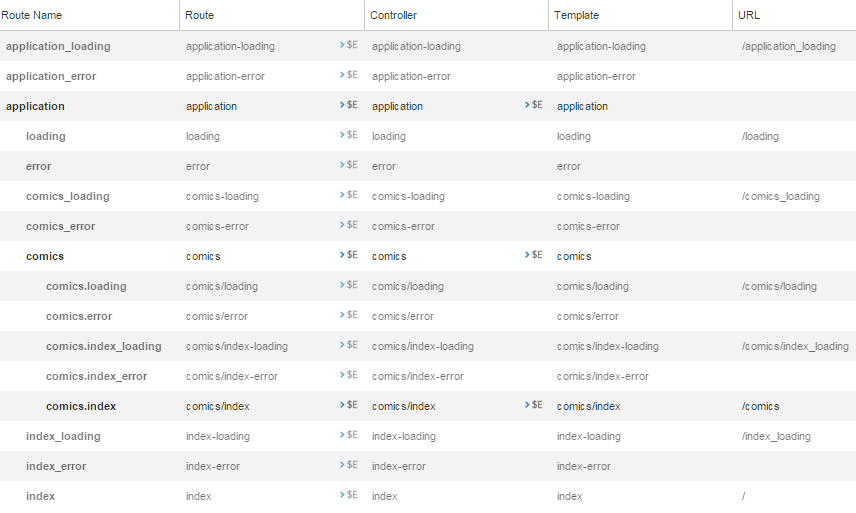
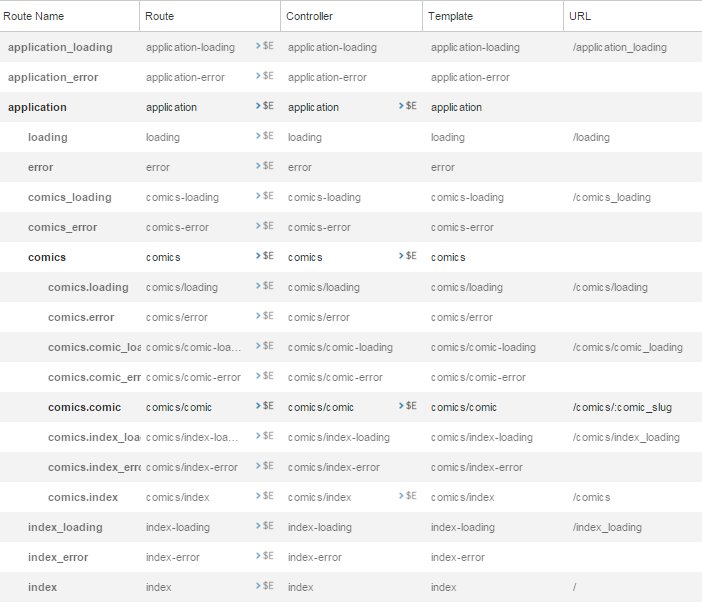
Routing: Implicit routes

diff --git a/ember/training/routing.md b/ember/training/routing.md
@@ -477,12 +477,11 @@ effectuant la correspondance avec la propriété ``prop`` du modèle ``name``.
 place du texte précédent. 
     * La nouvelle route doit répondre à l'URL ``/comics/<slug>`` ou ``slug`` correspond à la propriété ``slug`` du modèle ``comic``
     * Comme nous ne disposons pour l'instant pas de ``store`` nous permettant de disposer d'un référentiel partagé de nos modèles,
-      dupliquer intégralement la définition des modèles et de la liste de ``app/routes/comics.js`` dans 
-      ``app/routes/comics/comic.js``. 
+      utiliser la méthode ``modelFor`` pour récupérer le modèle de la route mère ``/comics``.
       
-      Modifier la route pour faire de la liste de comics une propriété de la route et non une variable globale.
+      [Ember][ember] fournit une méthode ``modelFor`` dans chaque route permettant de récupérer le modèle d'une route mère, 
+      directe ou non.
       
-      Cette solution n'est évidemment pas viable et nous aborderons plus tard la notion de ``store``
     * La route doit récupérer la valeur du paramètre ``slug`` et renvoyer le modèle correspondant. Utiliser la fonction Ember
       [filterBy](http://emberjs.com/api/classes/Ember.Array.html#method_filterBy)
     * Le template doit être modifié pour afficher le détail d'un comic :
@@ -536,42 +535,9 @@ place du texte précédent.
      > 
      > import Ember from 'ember';
      > 
-     > let Comic = Ember.Object.extend({
-     >   slug: '',
-     >   title: '',
-     >   scriptwriter: '',
-     >   illustrator: '',
-     >   publisher: ''
-     > });
-     > 
-     > let blackSad = Comic.create({
-     >   slug: 'blacksad',
-     >   title: 'BlackSad',
-     >   scriptwriter: 'Juan Diaz Canales',
-     >   illustrator: 'Juanjo Guarnido',
-     >   publisher: 'Dargaud'
-     > });
-     > 
-     > let calvinAndHobbes = Comic.create({
-     >   slug: 'calvin-and-hobbes',
-     >   title: 'Calvin and Hobbes',
-     >   scriptwriter: 'Bill Watterson',
-     >   illustrator: 'Bill Watterson',
-     >   publisher: 'Andrews McMeel Publishing'
-     > });
-     > 
-     > let akira = Comic.create({
-     >   slug: 'akira',
-     >   title: 'Akira',
-     >   scriptwriter: 'Katsuhiro Otomo',
-     >   illustrator: 'Katsuhiro Otomo',
-     >   publisher: 'Epic Comics'
-     > });
-     > 
      > export default Ember.Route.extend({
-     >   comics: [blackSad, calvinAndHobbes, akira]
      >   model (params) {
-     >     return this.get('comics').filterBy('slug', params.comic_slug).get(0);
+     >     return this.modelFor('comics').filterBy('slug', params.comic_slug).get(0);
      >   }
      > });
      > ```
@@ -786,7 +752,6 @@ complet au lieu du seul slug.
     > En observant la console, on constate que le *hook* ``model`` de la route ``app/routes/comics/comic.js``
     > n'a été exécuté que dans le second cas. Dans le premier, en effet, le modèle était déjà connu et a été passé
     > à la route en l'état. Il n'est donc pas nécessaire de le charger à nouveau.
-    
   
   {% endraw %}
   {% endcapture %}{{ m | markdownify }}
@@ -798,20 +763,8 @@ On a évoqué plus haut le fait qu'il n'était pas nécessaire de déclarer expl
 et que seul le template était nécessaire. La route ``application`` est en effet une route implicite ; créée, connue et gérée nativement par
 [Ember][ember]. C'est une route encore plus particulière car il s'agit de la route mère, du conteneur principal de toute application [Ember][ember].
 
-Mais la route ``application`` n'est pas la seule route implicite gérée par [Ember][ember]. On peut le constater immédiatement par une simple manipulation :
-
-<div class="work no-answer">
-  {% capture m %}
-  {% raw %}
- 
-1. Supprimer la déclaration de la route ``comics.index`` dans le routeur et constater l'absence de changement : la route existe toujours et son fonctionnement
-est strictement équivalent, le template ayant été conservé. 
- 
-  {% endraw %}
-  {% endcapture %}{{ m | markdownify }}
-</div>
- 
-D'autres routes encore sont créées comme le montre la capture ci-dessous pour notre application : 
+Mais la route ``application`` n'est pas la seule route implicite gérée par [Ember][ember]. D'autres routes implicites 
+encore sont créées comme le montre la capture ci-dessous pour notre application : 
 
 <p class="text-center">
     <img src="/images/implicit-routes.png" alt="Routes implicites"/>
@@ -849,13 +802,171 @@ On note enfin que, grâce capacités de **génération d'objets** d'[Ember](http
 les routes n'ont pas été les seuls objets à avoir été implicitement créés. En effet, on remarque que les contrôleurs et templates associés ont été également créés. Ils proposent une implémentation
 par défaut vide, bien entendu.
 
-## Redirections et Transitions
+<div class="work">
+  {% capture m %}
+  {% raw %}
+ 
+1. Ajouter le template pour la route ``comics.index`` et modifier le template de la route ``comics`` de manière à ce que le paragraphe
+``no-selected-comic`` ne s'affiche que lorsque aucun comic n'est selectionné. C'est à dire pour l'URL (``/comics``)
 
-rediriger / vers comics
+    On note que l'on n'a pas besoin de définir l'objet route ``app/routes/comics/index.js`` parce que celle-ci est implicitement
+    créée vide par [Ember][ember].
+    
+    > ```html
+    > {{!-- app/templates/comics.hbs --}}
+    > 
+    > <div class="row">
+    >   <div class="comics"...>
+    > 
+    >   {{outlet}}
+    > </div>
+    > ```
+    > 
+    > ```html
+    > {{!-- app/templates/comics/index.hbs --}}
+    > 
+    > <p id="no-selected-comic">
+    >   Please select on comic book for detailled information.
+    > </p>
+    > ```
+   
+1. On souhaite désormais gérer le cas où le comic demandé n'est pas trouvé.
+    * Modifier la route pour lever une erreur si le slug n'est pas trouvé (``throw Error("...")``)
+    * Ajouter un template ``error`` au niveau de l'application (``app/templates/error.error.hbs``). Ce template se 
+      contente d'afficher le model dans un paragraphe d'id ``error``
+      
+    > ```javascript
+    >   // app/routes/comics/comic.js
+    >   ...
+    >   model (params) {
+    >     let askedModel = this.modelFor('comics').filterBy('slug', params.comic_slug).get(0);
+    > 
+    >     if (askedModel == undefined) {
+    >       throw new Error("No comic found with slug: " + params.comic_slug);
+    >     }
+    > 
+    >     return askedModel;
+    >   }
+    > ```
+    > 
+    > ```html
+    > {{!-- app/templates/error.hbs --}}
+    > <p id="error">
+    >   {{model}}
+    > </p>
+    > ```
+   
+1. Dans notre cas il serait plus pertinent de gérer cette erreur au niveau de l'affichage d'un comic et non de 
+l'application.
+    * Copier le contenu du template ``app/templates/error.hbs`` dans un nouveau template ``app/templates/comics/error.hbs``
+    * Dans ``app/templates/error.hbs``, faire précéder le modèle du texte "Application error: "
+    * Dans ``app/templates/comics/error.hbs``, faire précéder le modèle du texte "Comic error: "
+    
+    > ```html
+    > {{!-- app/templates/error.hbs --}}
+    > <p id="error">
+    >   Application error: {{model}}
+    > </p>
+    > ```
+    >
+    > ```html
+    > {{!-- app/templates/error.hbs --}}
+    > <p id="error">
+    >   Comic error: {{model}}
+    > </p>
+    > ```
+    
+On constate que l'erreur levée au niveau ``comics/comic`` a été propagée au sein de l'application jusqu'à trouver un
+*handler*. Ce mécanisme permet de gérer les erreurs de la manière la plus contextuelle possible tout en proposant
+un gestionnaire par défaut pour toute l'application.
 
-beforeModel / after / redirect & routes imbriquées
+  {% endraw %}
+  {% endcapture %}{{ m | markdownify }}
+</div>
 
-transitions et interceptions (plus tard)
+## Transitions & Redirections
+
+On a vu que l'on pouvait changer de route via l'utilisation de ``link-to``. Il est également possible d'effectuer la même
+opération depuis une route grâce à la méthode ``transitionTo`` ou depuis un contrôleur via ``transitionToRoute``.
+
+Dans une route, ces changements de route via ``transitionTo`` peuvent s'effectuer :
+* avant que l'on connaisse le modèle dans ``beforeModel`` dans le cas où la transition est systématique
+* après avoir récupéré le modèle dans ``afterModel`` si l'appel de la transition dépend de l'état ou de la valeur du modèle
+
+Dans les deux cas, l'appel à ``transitionTo`` stoppe et invalide toute transition en cours et en déclenche une nouvelle.
+
+L'appel à ``transitionTo`` au sein de routes imbriquées mérite donc une attention supplémentaire. En effet, les *hook* 
+``beforeModel``, ``model`` et ``afterModel`` sont exécutés en cascade, à la manière de poupées russes, depuis la route
+de plus haut niveau vers celle de plus bas niveau.
+
+Lorsque l'on effectue une transition depuis une route mère vers une route fille, la transition de la route mère est donc 
+invalidée et une nouvelle transition pour la route fille est démarrée. Or celle-ci implique l'invocation des *hooks* de
+sa route mère. Ce fonctionnement est loin d'être optimal puisque ceux-ci viennent à peine d'être exécutés.
+
+Dans ce cas il est préférable d'utiliser la méthode ``redirect`` qui agit exactement comme un ``transitionTo`` mais 
+conserve la transaction courante valide.
+
+<div class="work">
+  {% capture m %}
+  {% raw %}
+  
+1. Modifier la route application de manière à rediriger ``/`` vers ``/comics``
+    
+   **Test** : *Les modifications doivent permettre de rendre tout les tests du module [01 - Templates Acceptance Tests](https://github.com/bmeurant/ember-training/blob/master/tests/acceptance/01-template-test.js) passant de nouveau.*
+
+   > ```javascript
+   > //app/routes/application.js
+   >
+   > import Ember from 'ember';
+   > 
+   > export default Ember.Route.extend({
+   >   beforeModel() {
+   >     this.transitionTo('comics');
+   >   }
+   > });
+   > ```
+  
+  {% endraw %}
+  {% endcapture %}{{ m | markdownify }}
+</div>
+
+## Namespaces
+
+Comme on a pu le constater, au sein d'une application [Ember][ember], les routes sont référencées par leur nom qualifié.
+Celui-ci se calcule en accolant les noms de l'ensemble des routes mères puis du nom de la route fille. Le tout séparés 
+par des ``.``.
+
+Ainsi la route définie de cette manière ...
+
+```javascript
+// app/router.js
+...
+Router.map(function() {
+  this.route('mere', function() {
+    this.route('fille');
+  });
+});
+```
+
+... sera référençable par le qualifieur ``mere.fille``. Par exemple :
+ 
+* dans un ``link-to`` : ``{{link-to "Titre route fille" "mere.fille"}}`` 
+* lors de l'appel d'un ``transitionTo`` : ``this.transitionTo('mere.fille');``
+
+Chaque niveau de route imbriquée est donc ajouté devant le nom de la route elle-même. Cela permet d'éviter les 
+collisions de nommage. Cependant, il peut s'avérer nécessaire ou préférable de conserver un nom court. Cela est
+possible en précisant que l'on souhaite réinitialiser le ``namespace`` via l'option ``resetNamespace`` dans le 
+routeur : 
+
+```javascript
+// app/router.js
+...
+Router.map(function() {
+  this.route('mere', function() {
+    this.route('fille', {resetNamespace: true});
+  });
+});
+```
 
 ...
  
